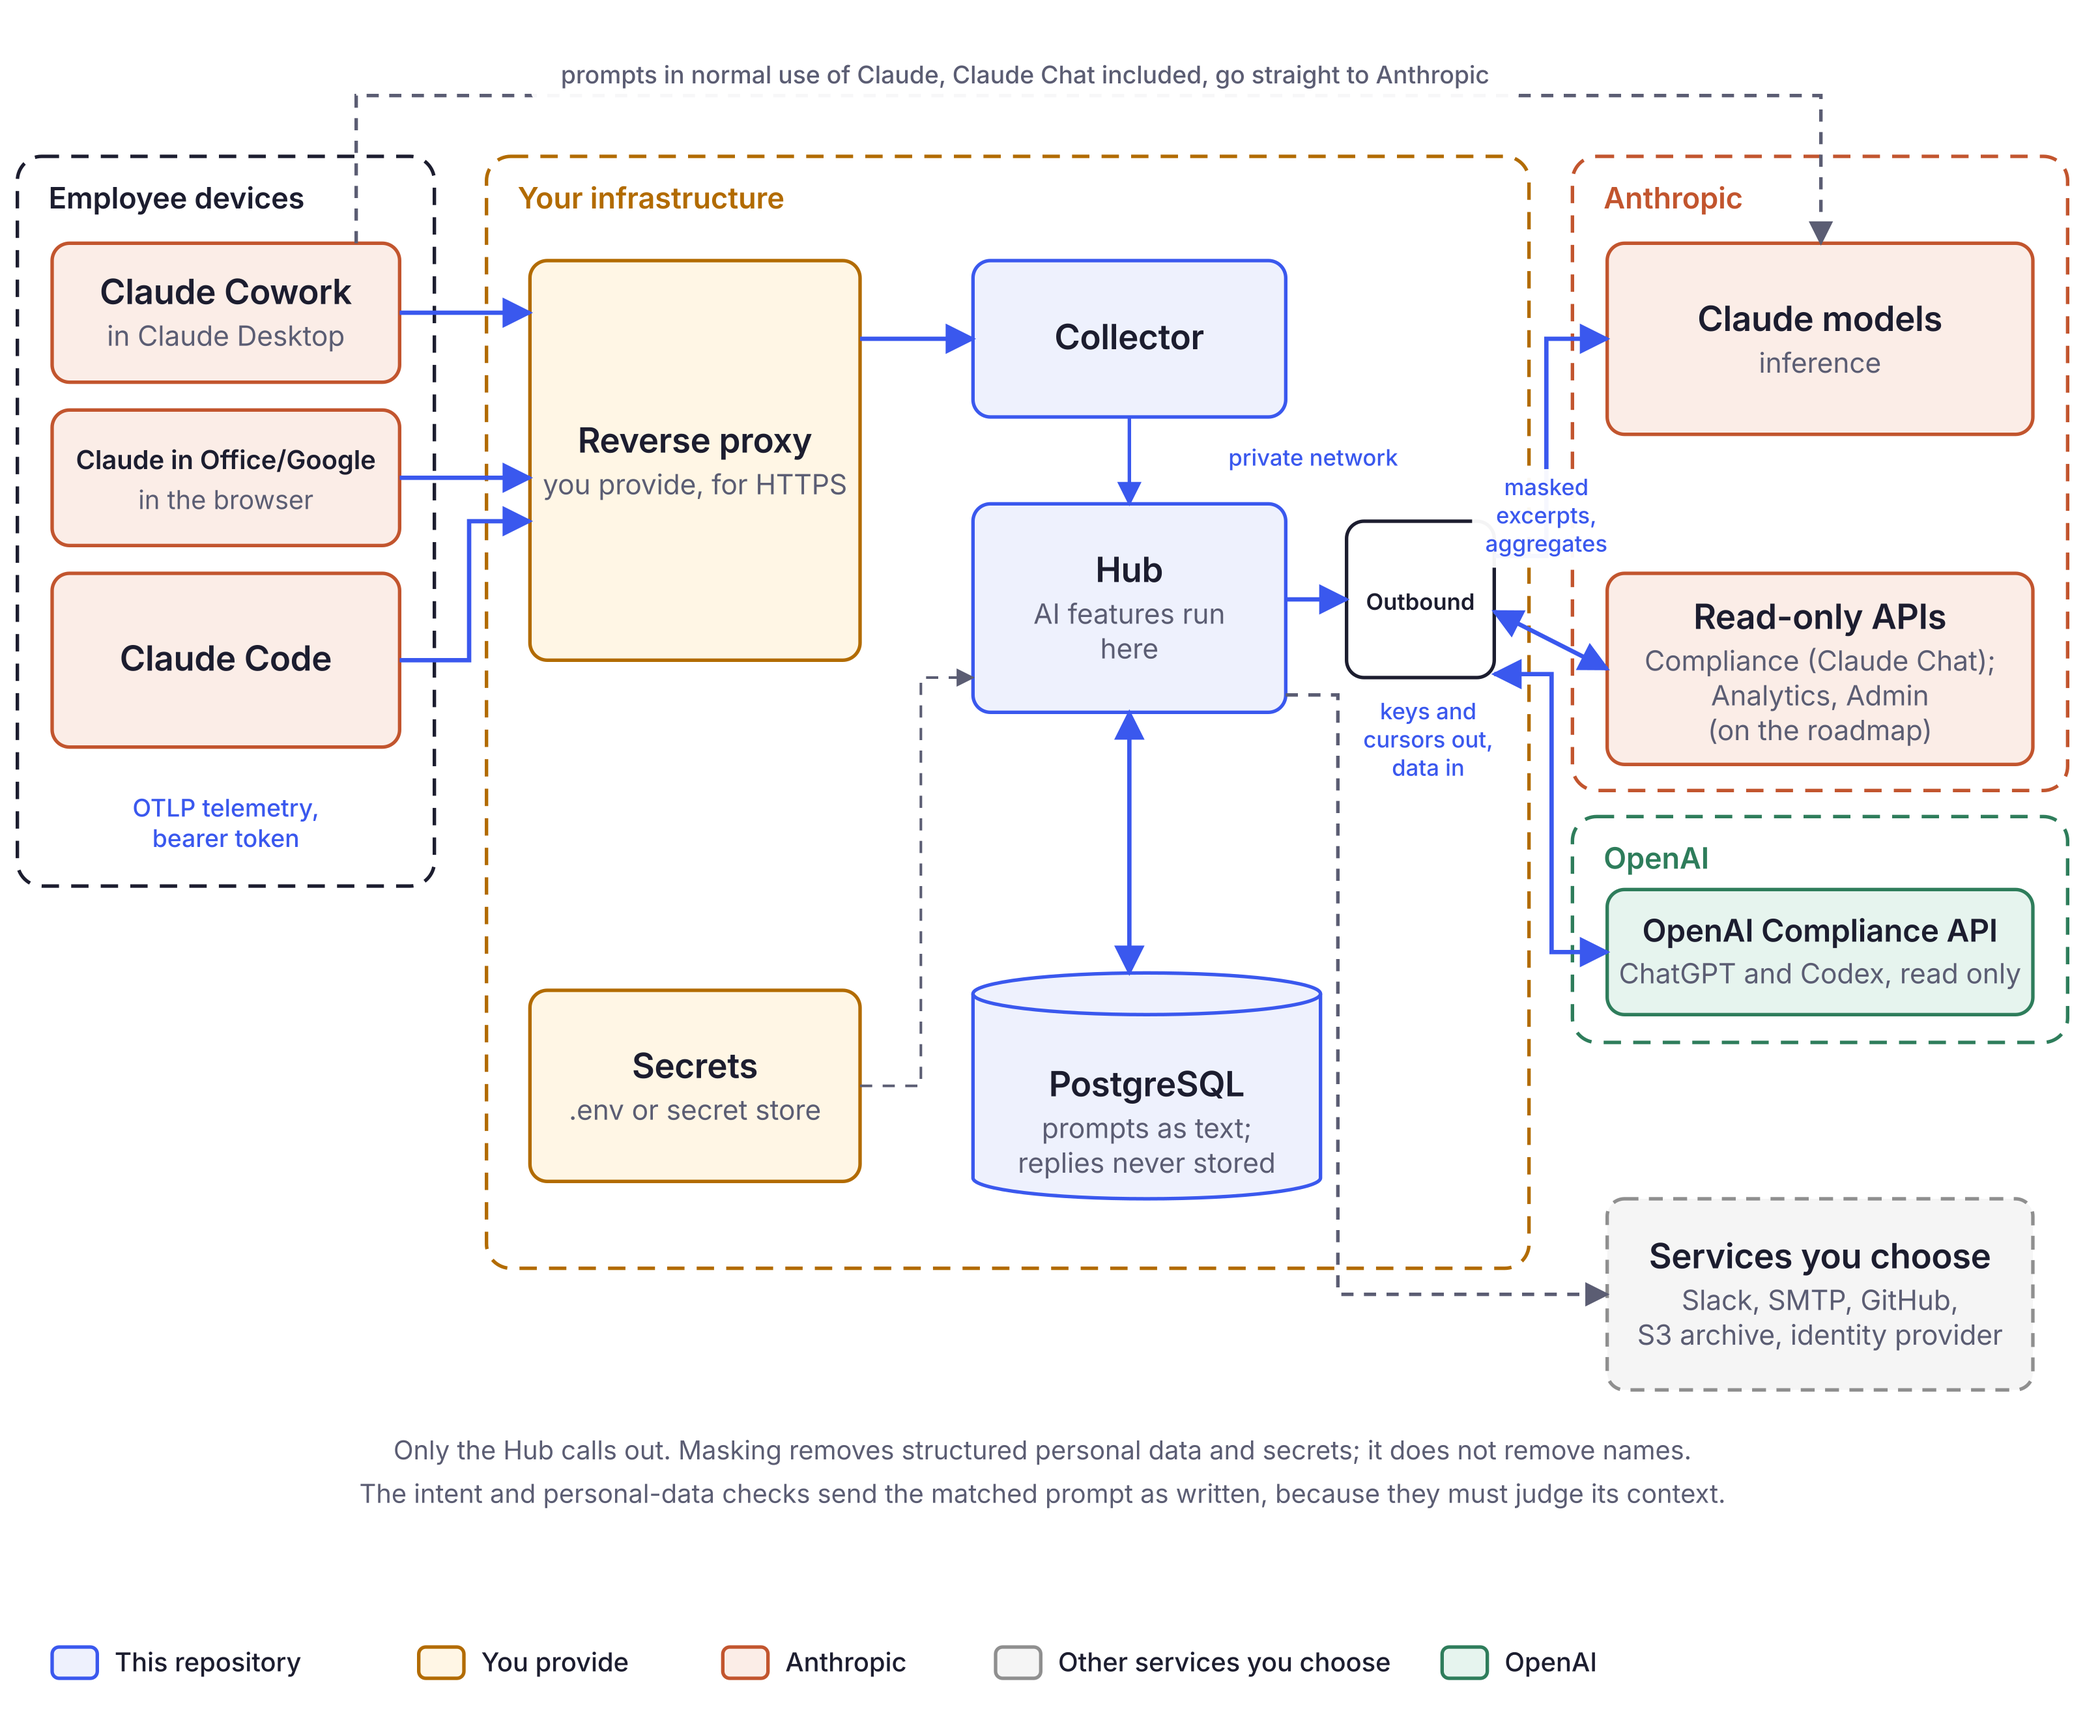
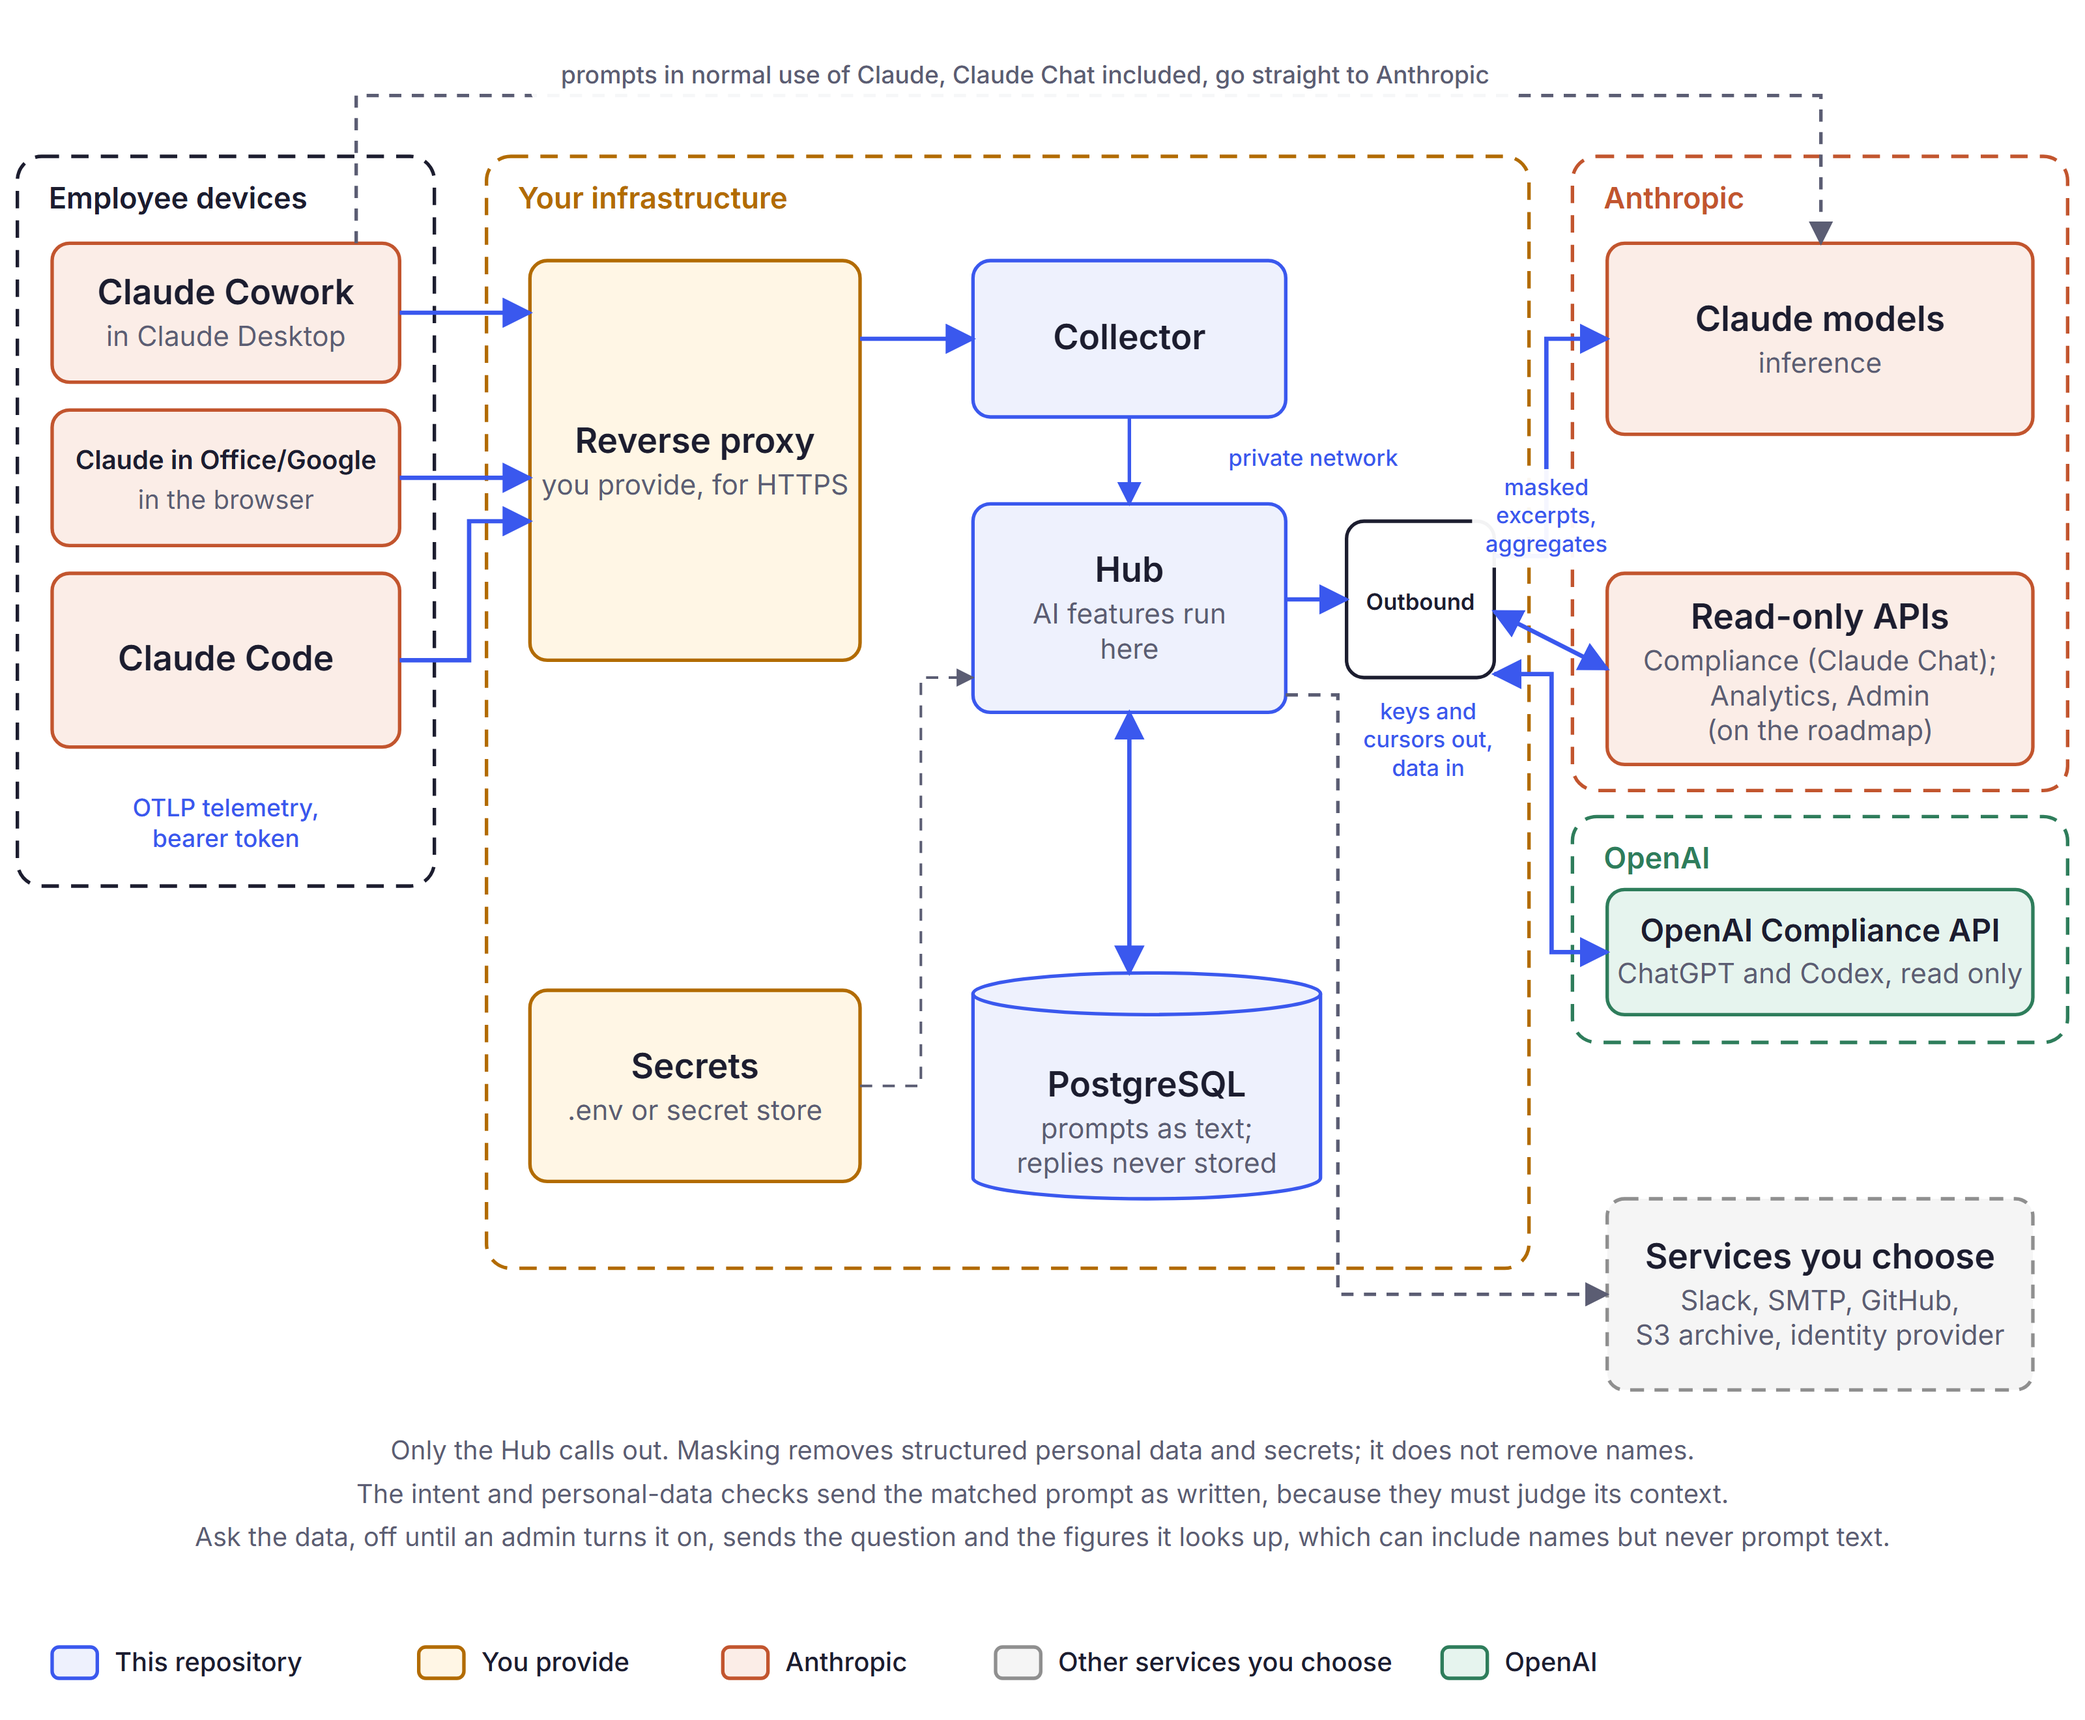
S&C Board "used by nobody" follows the Board's department rule; Ask the data on the data flow diagram
- The "used by nobody" list on /api/pulse/skills-overview left out the Board's department check, so a member could see the names and authors of entries an admin or manager had restricted to another department. It now applies the same rule as the Board: admins, managers and viewers see every entry; everyone else sees entries for everyone and for their own department. Test added; the route's description in the role tests updated
- AI data flow and trust boundaries diagram: a note that Ask the data sends the question and the figures it looks up, which can include names but never prompt text

diff --git a/app/api/pulse/skills-overview/route.ts b/app/api/pulse/skills-overview/route.ts
@@ -9,7 +9,7 @@
 import { NextRequest, NextResponse } from 'next/server';
 import { notBoardHiddenConnector, entryNotBoardHidden } from '@/lib/library/built-in-connectors';
 import { and, eq, gte, notInArray, sql } from 'drizzle-orm';
-import { getAdminSession } from '@/lib/auth/admin-auth';
+import { canAccessOrgOverview, getAdminSession } from '@/lib/auth/admin-auth';
 import { getTypedClient } from '@/lib/db/client';
 import { schema } from '@/lib/db/schema';
 import { vendorExpr, toolTagExpr } from '@/lib/dashboard/product-sql';
@@ -176,6 +176,17 @@ export async function GET(request: NextRequest) {
     department: whoById.get(r.user_id)?.department ?? null,
   }));
 
+  // The S&C Board's own department rule (app/api/library/route.ts): an entry an admin or manager
+  // restricted to a department is shown only to that department, and to admins, managers and
+  // viewers. The caller's department is the sign-in account's or the activity record's.
+  const usersDeptRows = userId ? await client.select({ department: u.department }).from(u).where(eq(u.id, userId)) : [];
+  const callerDepts = [...new Set([session.department, usersDeptRows[0]?.department ?? null].filter((d): d is string => Boolean(d)))];
+  const boardVisible = canAccessOrgOverview(session.role)
+    ? sql`TRUE`
+    : callerDepts.length
+      ? sql`(e.department IS NULL OR ${sql.join(callerDepts.map(d => sql`e.department = ${d}`), sql` OR `)})`
+      : sql`e.department IS NULL`;
+
   // ── Used by nobody: the organisation's OWN published Board entries with no use in the last 30
   // days. Unclaimed entries are left out (the Board registers every name telemetry sees, so an
   // unused name nobody chose is not a finding) and so is Anthropic's catalogue, which publishes
@@ -193,6 +204,7 @@ export async function GET(request: NextRequest) {
     LEFT JOIN admin_users au ON au.linked_cowork_user_id = e.author_user_id
     WHERE e.is_published = 1 AND e.source <> 'anthropic'
       AND ${entryNotBoardHidden(sql.raw('e.type'), sql.raw('e.name'))}
+      AND ${boardVisible}
     ORDER BY e.name
   `)).rows as Array<{ id: number | string; name: string; type: string; is_published: number | string; author: string | null; last_at: number | string | null }>;
   const unused = unusedRows

diff --git a/test/pulse-routes-remaining.test.ts b/test/pulse-routes-remaining.test.ts
@@ -185,6 +185,33 @@ describe('GET /api/pulse/skills-overview', () => {
     expect(body.mySkills.map((s: { skill_name: string }) => s.skill_name)).toContain('brand-review');
     expect(body.skillGap.find((s: { skill_name: string }) => s.skill_name === 'brand-review')).toBeUndefined();
   });
+
+  it('keeps a department-only Board entry out of "used by nobody" for other departments, as the Board does', async () => {
+    await client.insert(schema.skillLibraryEntries).values([
+      { name: 'finance-only-skill', is_published: 1, department: 'Finance' },
+      { name: 'engineering-only-skill', is_published: 1, department: 'Engineering' },
+      { name: 'everyone-skill', is_published: 1, department: null },
+    ]);
+    const { GET } = await import('../app/api/pulse/skills-overview/route');
+    const unusedNames = async () => ((await (await GET(makeRequest('/api/pulse/skills-overview'))).json()).unused as Array<{ name: string }>).map(e => e.name);
+    const saved = { ...mockSession };
+    try {
+      // A member whose account and activity record are both Engineering (admin1 is linked to u1).
+      Object.assign(mockSession, { role: 'pulse', department: 'Engineering' });
+      const member = await unusedNames();
+      expect(member).toContain('everyone-skill');
+      expect(member).toContain('engineering-only-skill');
+      expect(member).not.toContain('finance-only-skill');
+
+      // Admins, managers and viewers see every entry, as on the Board.
+      for (const role of ['admin', 'manager', 'viewer']) {
+        Object.assign(mockSession, { role, department: 'Engineering' });
+        expect(await unusedNames()).toContain('finance-only-skill');
+      }
+    } finally {
+      Object.assign(mockSession, saved);
+    }
+  });
 });
 
 describe('GET /api/pulse/skill-exchange', () => {

diff --git a/test/api-route-authz-coverage.test.ts b/test/api-route-authz-coverage.test.ts
@@ -47,7 +47,7 @@ const SELF_SCOPED: Record<string, string> = {
   'admin/mfa/setup POST': 'the caller\'s own MFA enrolment',
   'admin/mfa/disable POST': 'the caller\'s own MFA',
   'pulse/user-prefs GET': 'the caller\'s own preferences',
-  'pulse/skills-overview GET': 'the caller\'s own skills (resolved from session email)',
+  'pulse/skills-overview GET': 'S&C Board figures, which every role sees; department-only entries filtered as on the Board',
   'library POST': 'any user may submit a Board entry',
   'library/[id]/vote POST': 'any user may upvote a Board entry once',
 };

diff --git a/test/helpers/route-role-matrix.ts b/test/helpers/route-role-matrix.ts
@@ -213,7 +213,7 @@ export const ROUTE_ROLE_MATRIX: Record<string, MatrixEntry> = {
   // Role check now runs before the ?dept/?userId input check (fixed),
   // so the plain request must be refused for roles outside the set.
   'pulse/skill-exchange GET': COWORK_PULSE,
-  'pulse/skills-overview GET': 'SELF_OR_DATA', // the caller's own skills
+  'pulse/skills-overview GET': 'SELF_OR_DATA', // S&C Board figures for every role, department-only entries filtered
   'pulse/stickiness GET': ORG,
   'pulse/team/[teamId] GET': ADMIN,
   'pulse/teams GET': ADMIN,
